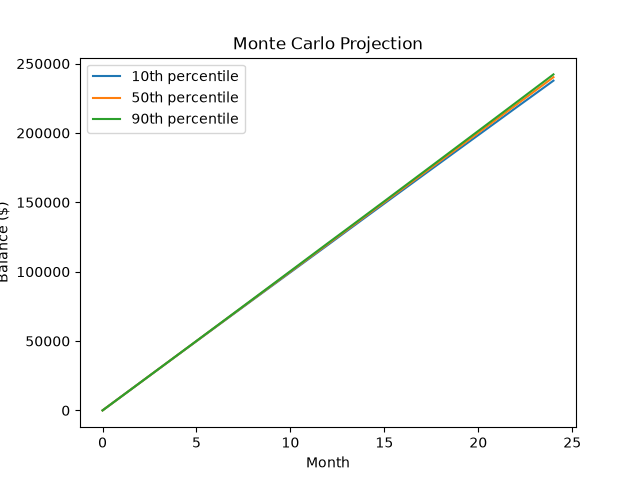
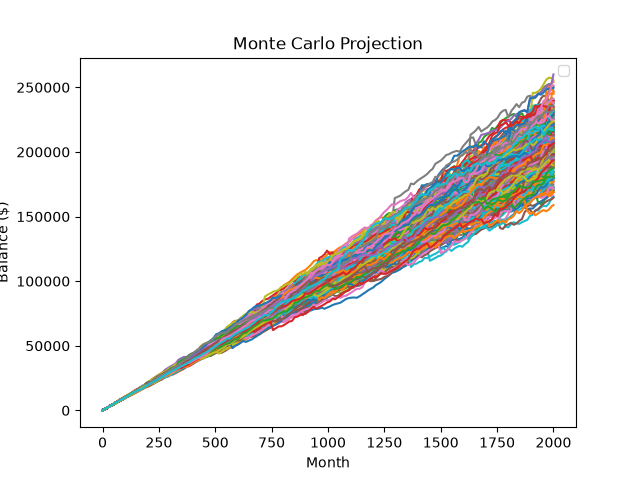
fixed monte carlo trajectories

diff --git a/playground/monte-carlo-sim.py b/playground/monte-carlo-sim.py
@@ -75,13 +75,13 @@ def summerize_outcome(all_paths: ndarray, percentiles = (10, 50, 90)) -> dict:
 
 if __name__ == "__main__":
     MONTH = 2000
-    all_paths = run_simulation(0, 10000, MONTH, 3000, 42)
+    all_paths = run_simulation(0, 100, MONTH, 300, 42)
     summary = summerize_outcome(all_paths)
 
     months_axis = np.arange(MONTH + 1)
 
-    for percentile, trajectory in summary.items():
-        plt.plot(months_axis, trajectory, label=f"{percentile}th percentile")
+    for trajectory in all_paths:
+        plt.plot(months_axis, trajectory)
 
     plt.xlabel("Month")
     plt.ylabel("Balance ($)")